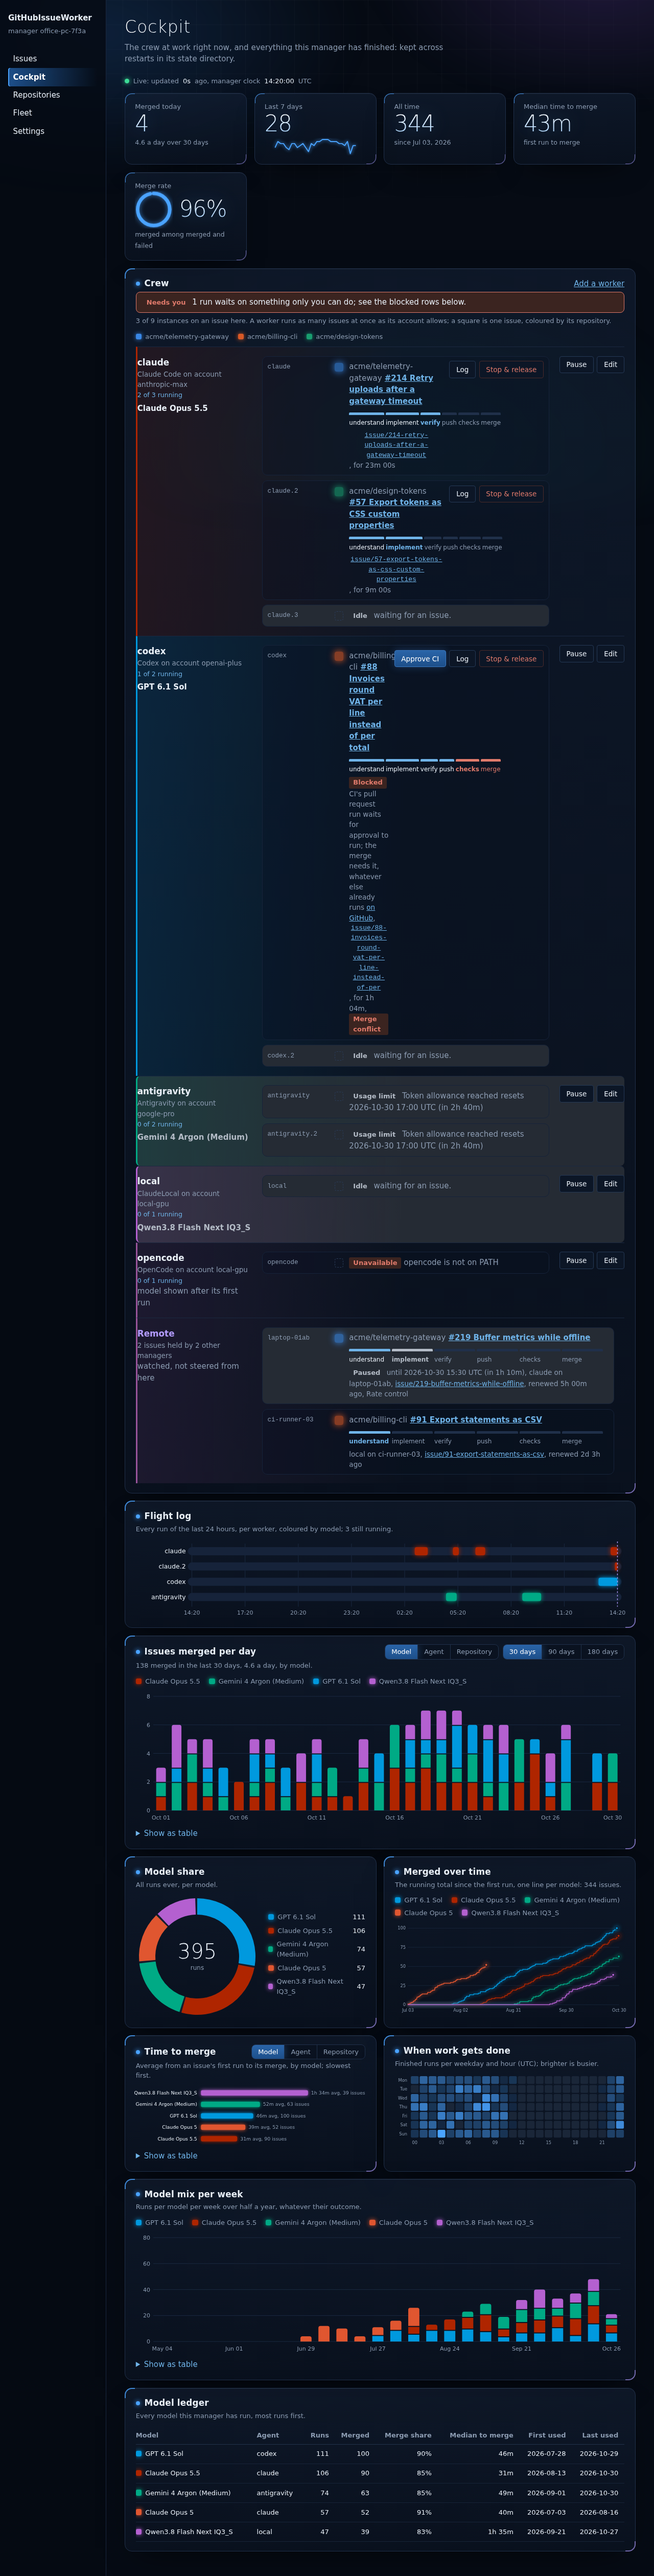
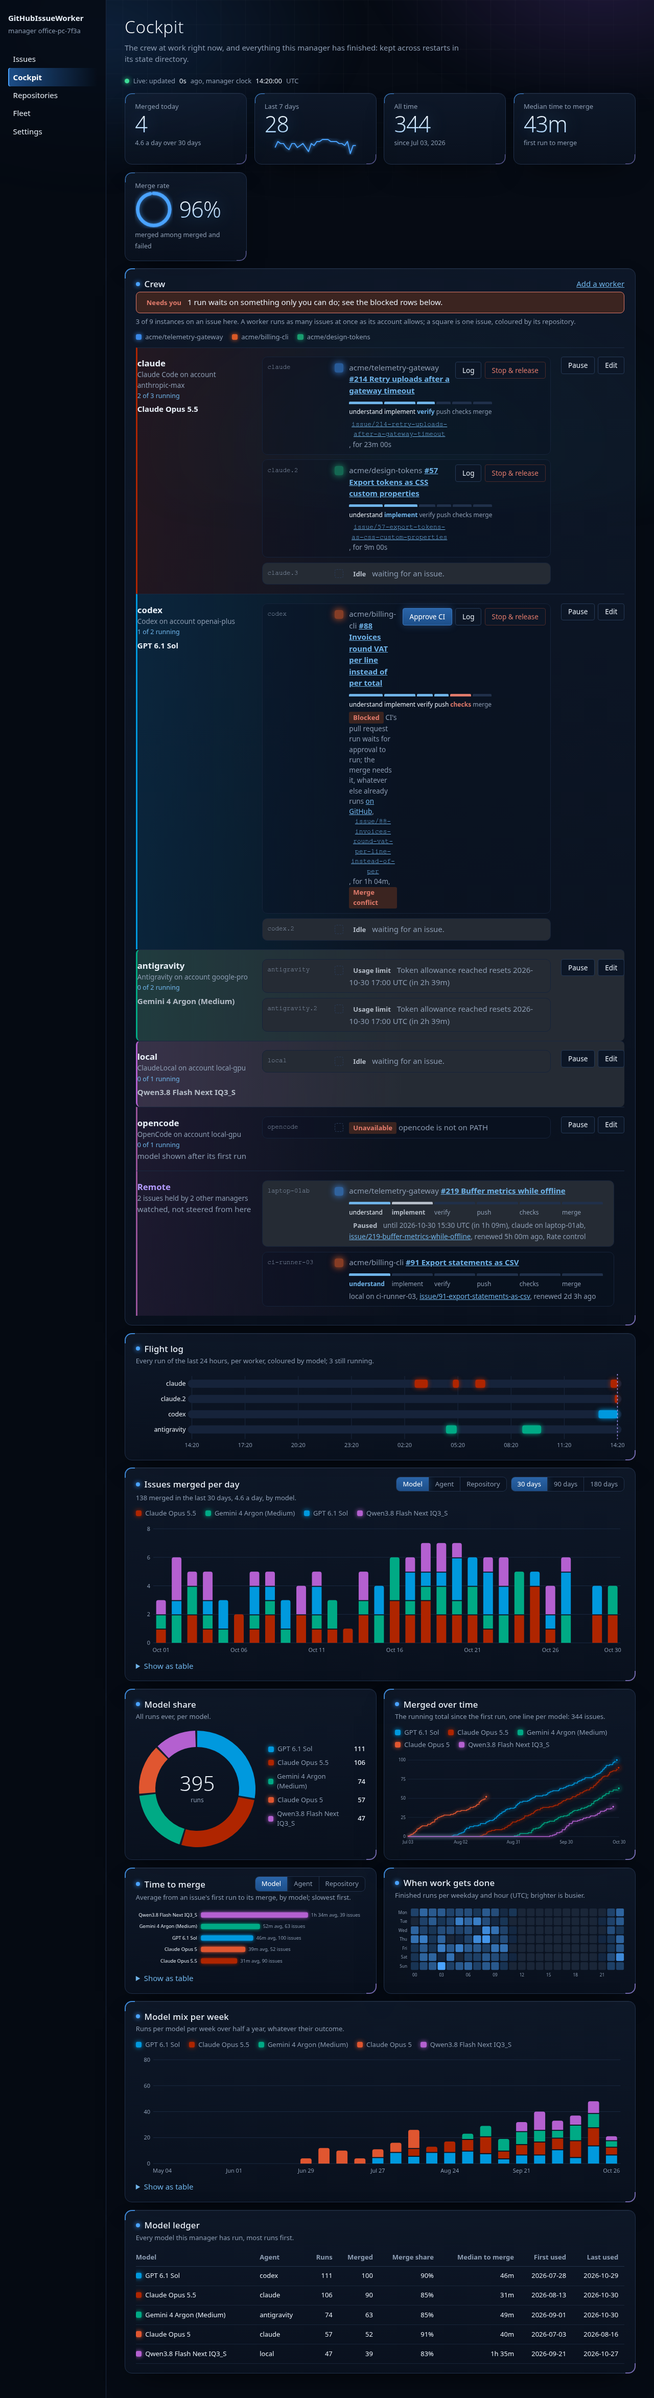
* one active step chip per worker; what needs the user marks only it (F14.18)
* a merge conflict and CI waiting for approval mark the current chip, never a later one
* such a chip pulses rapidly in red, with every reason in its title
* while CI waits for approval the run looks again every 10 s, so the mark goes soon after
  the approval
* spec F14.18 revised: the merge chip no longer turns red ahead of time

diff --git a/src/github_issue_worker/ui/pages.py b/src/github_issue_worker/ui/pages.py
@@ -422,7 +422,7 @@ svg.chart { display: block; width: 100%; height: auto; overflow: visible; }
     50% { border-top-color: #e2f2ff; color: #e2f2ff; background-color: #4aa3ff40;
       box-shadow: inset 0 18px 22px -6px #4aa3ff, 0 0 22px 0 #4aa3ffcc;
       text-shadow: 0 0 10px #4aa3ff, 0 0 3px #ffffff; } }
-  .track span.blocked { animation: alarm .6s ease-in-out infinite; }
+  .track span.blocked, .track span.conflict { animation: alarm .6s ease-in-out infinite; }
   @keyframes alarm {
     0%, 100% { box-shadow: inset 0 8px 10px -8px var(--brick); text-shadow: none;
       background-color: #e07a6b14; }
@@ -788,12 +788,15 @@ def _track(
     for index, name in enumerate(STEPS):
         css = "now" if index == position else "past" if index < position else ""
         title = ""
-        if name == "merge" and merge_conflict:
-            css = (css + " conflict").strip()
-            title = ' title="Merge conflict"'
-        elif index == position and blocked:
-            css = (css + " blocked").strip()
-            title = f' title="Blocked: {e(blocked)}"'
+        # One chip is active: the current step. Whatever needs the user marks it, and only it.
+        reasons = [
+            *(["Merge conflict"] if merge_conflict else []),
+            *([f"Blocked: {blocked}"] if blocked else []),
+        ]
+        if index == position and reasons:
+            marks = [*(["conflict"] if merge_conflict else []), *(["blocked"] if blocked else [])]
+            css = " ".join([css, *marks])
+            title = f' title="{e("; ".join(reasons))}"'
         elif index == position and waiting:
             css = (css + " waiting").strip()
         current = ' aria-current="step"' if index == position else ""

diff --git a/src/github_issue_worker/application/issue_run.py b/src/github_issue_worker/application/issue_run.py
@@ -429,19 +429,22 @@ class IssueRun:
                 return "ci", "The pull request's checks fail:\n\n" + "\n".join(lines)
             if self.clock.now() >= deadline:
                 return "timeout", ""
-            self._report_approvals(current)
-            self.sleep(self.settings.check_interval.total_seconds())
+            waiting = self._report_approvals(current)
+            # Someone may approve any moment: look again soon, so the blocker goes as soon as
+            # the runs start.
+            interval = self.settings.check_interval.total_seconds()
+            self.sleep(min(interval, 10.0) if waiting else interval)
 
     def _conflict(self, conflict: bool) -> None:
         self._handle = self.coordinator.set_merge_conflict(self._handle, conflict)
         self.conflict_changed(conflict)
 
-    def _report_approvals(self, current: PullRequest) -> None:
+    def _report_approvals(self, current: PullRequest) -> bool:
         """CI that GitHub holds back for approval would wait silently; say so where it shows."""
         waiting = self.host.waiting_for_approval(current.head_sha)
         if not waiting:
             self.blocked(None)
-            return
+            return False
         names = ", ".join(sorted({_described(run) for run in waiting}))
         self.blocked(
             Blocker(
@@ -451,6 +454,7 @@ class IssueRun:
                 approvals=tuple(run.id for run in waiting),
             )
         )
+        return True
 
     def _merge(
         self, issue: Issue, pull: PullRequest, branch: str, tree: Path, base: str

diff --git a/tests/ui/test_feedback_colors.py b/tests/ui/test_feedback_colors.py
@@ -48,15 +48,25 @@ def test_resource_wait_chip_preserves_reason_reset_and_conflict(state: WorkerSta
     html = _agent_row((worker,), NOW, {}, NO_COLOURS)
     assert f'class="flag {state}"' in html
     assert "Spending allowance reached" in html and "resets" in html
-    assert 'class="conflict"' in html and "Merge conflict" in html
+    assert "Merge conflict" in html
 
 
-def test_merge_chip_stays_red_during_repairs_and_clears_on_resolution() -> None:
+def test_a_merge_conflict_marks_the_current_chip_only_and_clears_on_resolution() -> None:
     for step in ("implement", "verify", "checks", "merge"):
         track = _track(step, merge_conflict=True)
-        assert ">merge</span>" in track and 'title="Merge conflict"' in track
-        assert 'class="conflict"' in track or 'class="now conflict"' in track
+        assert track.count('class="now conflict"') == 1  # exactly one chip needs the user
+        assert f'class="now conflict" aria-current="step" title="Merge conflict">{step}<' in track
     assert "conflict" not in _track("merge", merge_conflict=False)
+
+
+def test_there_is_only_ever_one_active_chip() -> None:
+    track = _track("checks", merge_conflict=True, blocked="CI waits")
+    assert track.count("aria-current") == 1
+    assert (
+        'class="now conflict blocked" aria-current="step" title="Merge conflict; Blocked: CI waits">'
+        in track
+    )
+    assert '<span class="">merge</span>' in track
 
 
 def test_live_refresh_clears_feedback_and_resource_wait_colors(

diff --git a/tests/ui/test_feedback_colors_browser.py b/tests/ui/test_feedback_colors_browser.py
@@ -43,8 +43,9 @@ def test_demo_wait_and_conflict_colors_are_readable_in_both_schemes(
         )
         expect(limited.locator(".flag.limited").first).to_have_css("color", "rgb(180, 188, 199)")
         conflict = page.locator('[aria-label="codex"] .track .conflict')
-        assert conflict.inner_text() == "merge"
-        assert conflict.get_attribute("title") == "Merge conflict"
+        assert conflict.inner_text() == "checks"  # the current step, never a later one
+        assert (conflict.get_attribute("title") or "").startswith("Merge conflict")
+        assert page.locator('[aria-label="codex"] .track [aria-current]').count() == 1
         expect(conflict).to_have_css("border-top-color", "rgb(224, 122, 107)")
         expect(page.locator('[aria-label="claude"] .track .now').first).to_have_css(
             "border-top-color", "rgb(111, 179, 232)"
@@ -102,8 +103,9 @@ def test_current_conflict_and_wait_chips_do_not_pulse_back_to_active_color(
     page = browser.new_page(reduced_motion="no-preference")
     try:
         page.goto(server.url + "/workers")
+        # it pulses, but red and fast, never back to the blue of a step merely in progress
         expect(page.locator('[aria-label="claude"] .track .conflict')).to_have_css(
-            "animation-name", "none"
+            "animation-name", "alarm"
         )
         expect(page.locator(".lane.remote .run.waiting .track .now")).to_have_css(
             "animation-name", "none"

diff --git a/tests/application/test_issue_run.py b/tests/application/test_issue_run.py
@@ -437,3 +437,17 @@ def test_ci_waiting_for_approval_is_reported_as_a_blocker_until_it_runs(tmp_path
         "already runs"
     )
     assert seen[-1] is None  # cleared once the run started
+
+
+def test_while_ci_waits_for_approval_the_run_looks_again_within_ten_seconds(
+    tmp_path: Path,
+) -> None:
+    h = Harness(tmp_path, lambda h: [step(h.workspace, ok())])
+    h.host.states = ["blocked", "blocked", "clean"]
+    h.host.approvals = [[WaitingRun(7, "CI", "https://x/runs/7", "pull_request")], []]
+    slept: list[float] = []
+    original = h.clock.advance
+    h.clock.advance = lambda delta: (slept.append(delta.total_seconds()), original(delta))[1]  # type: ignore[method-assign]
+    assert h.run().kind == "merged"
+    assert slept[0] == 10.0  # blocked: soon again
+    assert slept[1] == 30.0  # no longer blocked: the normal interval

diff --git a/tests/ui/test_app.py b/tests/ui/test_app.py
@@ -598,8 +598,8 @@ def test_a_blocked_runs_current_step_chip_is_marked_blocked(client: TestClient) 
     crew = client.get("/workers").text.split('aria-label="Crew"', 1)[1].split("</section>", 1)[0]
     codex = crew.split('aria-label="codex"', 1)[1].split("class=lane", 1)[0]
     assert (
-        '<span class="now blocked" aria-current="step" title="Blocked: CI&#x27;s pull request run waits'
-        in codex
-    )
+        '<span class="now conflict blocked" aria-current="step" '
+        'title="Merge conflict; Blocked: CI&#x27;s pull request run waits'
+    ) in codex
     claude = crew.split('aria-label="claude"', 1)[1].split("class=lane", 1)[0]
     assert '<span class="now" aria-current="step">verify<' in claude  # active, not blocked

diff --git a/README.md b/README.md
@@ -1198,9 +1198,11 @@ operational items, demonstrated on a real repository. Commits that implement an 
 - [x] 🟧 **F14.18** Feedback colours: an issue waiting for a requested human answer has a
   yellow status chip even after its claim is released. Token, spending-allowance and rate-limit
   waits have gray chips, with the reason and reset time when known. Idle, paused and resource-waiting
-  worker boxes are gray; a worker still executing stays active. A merge conflict makes the Merge
-  progress chip red through refreshes, repair steps and restarts until resolution, independently of
-  a gray worker box. Live refresh clears obsolete colours. Status text stays readable in light and
+  worker boxes are gray; a worker still executing stays active. A worker shows exactly one active
+  progress chip, its current step; what needs the user marks that chip and no other. A merge
+  conflict or CI waiting for approval turns the current chip red and makes it pulse rapidly, with
+  the reason as its title, through refreshes, repair steps and restarts until resolution,
+  independently of a gray worker box; otherwise the current chip pulses slowly. Live refresh clears obsolete colours. Status text stays readable in light and
   dark schemes, repository colours keep their meaning, and deterministic demos cover these states.
 - [x] 🟧 **F14.19** Model colours: every model series wears a colour of its maker's hue segment —
   `modelColors.anthropic` from orange to yellow, `.google` green, `.openai` blue, and `.other` a
